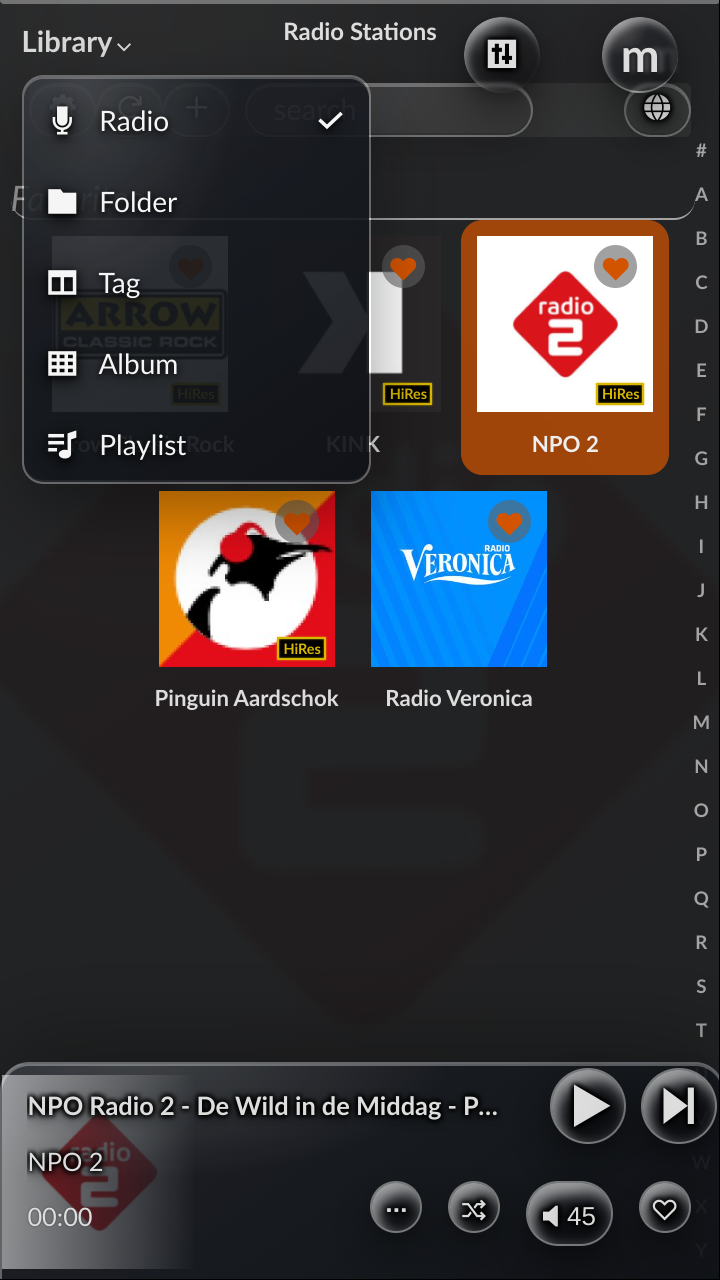
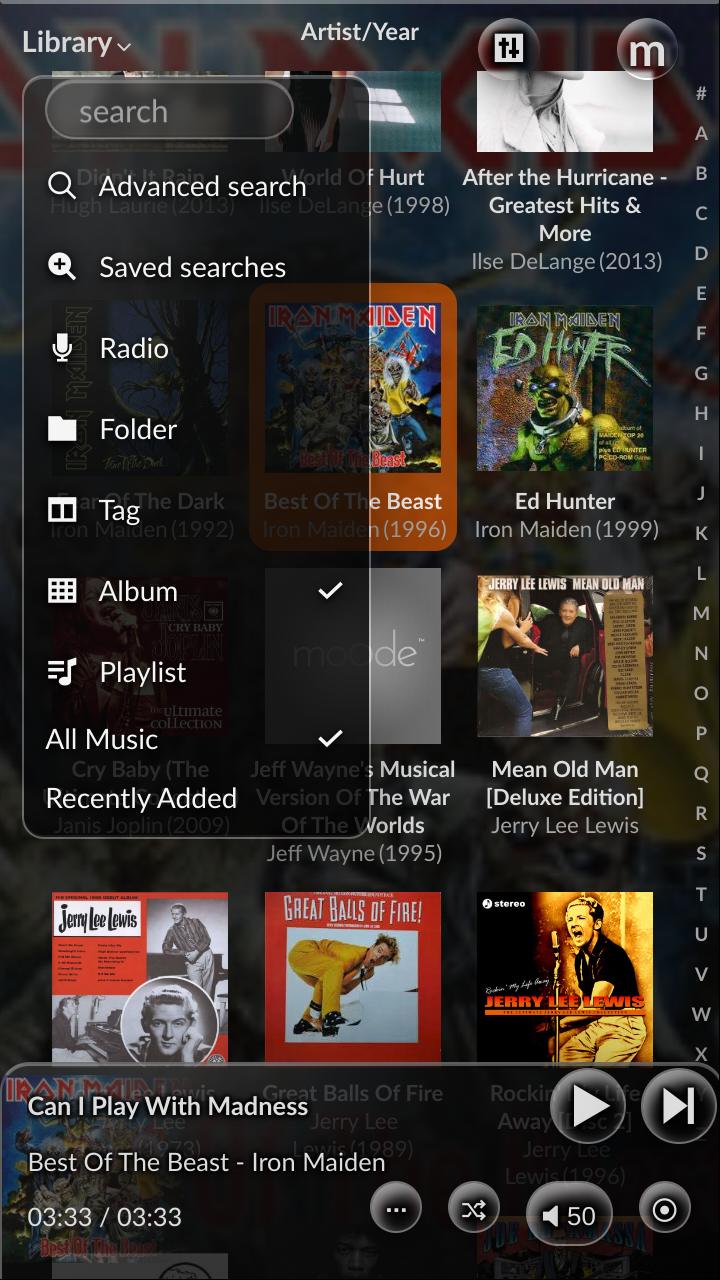
liquid glass styling updates

diff --git a/LiquidGlassTheme/liquid-glass-theme.css b/LiquidGlassTheme/liquid-glass-theme.css
@@ -1,6 +1,7 @@
 :root.liquid-glass-theme {
-    --liquid-glass-panel: rgba(24, 28, 35, .11);
+    --liquid-glass-panel: rgba(0, 0, 0, .08);
     --liquid-glass-control: rgba(255, 255, 255, .025);
+    --liquid-glass-dark-surface: rgba(0, 0, 0, .80);
     --liquid-glass-border: rgba(255, 255, 255, .34);
     --liquid-glass-shadow: rgba(0, 0, 0, .28);
 }
@@ -26,14 +27,15 @@
     position: absolute;
     z-index: 1;
     inset: 0;
-    background-color: rgba(16, 19, 24, .90) !important;
+    background-color: var(--liquid-glass-dark-surface) !important;
     background-image:
         radial-gradient(ellipse at 18% 0, rgba(255,255,255,.15), transparent 38%),
-        linear-gradient(145deg, rgba(255,255,255,.055), rgba(8,10,14,.18)) !important;
+        linear-gradient(145deg, rgba(255,255,255,.055), rgba(8,10,14,.16)) !important;
     pointer-events: none;
 }
 
-:root.liquid-glass-theme #content:has(#playback-panel.active) {
+:root.liquid-glass-theme #content:has(#playback-panel.active),
+:root.liquid-glass-theme.liquid-glass-library-visible #content {
     background-color: transparent !important;
 }
 
@@ -94,12 +96,12 @@
     display: inline-flex !important;
     align-items: center !important;
     justify-content: center !important;
-    width: 3.5rem !important;
-    min-width: 3.5rem !important;
-    max-width: 3.5rem !important;
-    height: 3.5rem !important;
-    min-height: 3.5rem !important;
-    max-height: 3.5rem !important;
+    width: 2.85rem !important;
+    min-width: 2.85rem !important;
+    max-width: 2.85rem !important;
+    height: 2.85rem !important;
+    min-height: 2.85rem !important;
+    max-height: 2.85rem !important;
     padding: 0 !important;
     border-radius: 50% !important;
     line-height: 1 !important;
@@ -110,13 +112,16 @@
    Re-center them inside the now circular control. */
 :root.liquid-glass-theme #panel-header #menu-settings #mblur,
 :root.liquid-glass-theme #panel-header #menu-settings #mbrand {
-    top: 50% !important;
-    right: auto !important;
-    bottom: auto !important;
-    left: 50% !important;
+    inset: 0 !important;
+    display: flex !important;
+    align-items: center !important;
+    justify-content: center !important;
+    width: 100% !important;
+    height: 100% !important;
     margin: 0 !important;
     line-height: 1 !important;
-    transform: translate(-50%, -50%) !important;
+    text-align: center !important;
+    transform: none !important;
 }
 
 /* Avoid re-blurring the moving album grid on every Library scroll frame. */
@@ -157,11 +162,11 @@
 :root.liquid-glass-theme #playbar-switch {
     background:
         radial-gradient(ellipse at 25% 9%, rgba(255,255,255,.22), transparent 34%),
-        radial-gradient(ellipse at 72% 94%, rgba(0,0,0,.13), transparent 56%),
+        radial-gradient(ellipse at 72% 94%, rgba(0,0,0,.12), transparent 56%),
         linear-gradient(145deg, rgba(255,255,255,.025), rgba(255,255,255,.008)) !important;
     border-color: rgba(255,255,255,.32) !important;
     box-shadow: inset 2px 3px 4px rgba(255,255,255,.46),
-                inset -3px -6px 9px rgba(0,0,0,.24),
+                inset -3px -6px 9px rgba(0,0,0,.22),
                 0 10px 24px rgba(0,0,0,.40),
                 0 3px 7px rgba(0,0,0,.18) !important;
     -webkit-backdrop-filter: blur(1px) saturate(155%) contrast(104%) brightness(102.5%) !important;
@@ -187,7 +192,7 @@
 :root.liquid-glass-theme .btn-group > .btn:hover {
     background:
         radial-gradient(ellipse at 25% 9%, rgba(255,255,255,.30), transparent 36%),
-        radial-gradient(ellipse at 72% 94%, rgba(0,0,0,.11), transparent 56%),
+        radial-gradient(ellipse at 72% 94%, rgba(0,0,0,.10), transparent 56%),
         linear-gradient(145deg, rgba(255,255,255,.045), rgba(255,255,255,.012)) !important;
     border-color: rgba(255,255,255,.42) !important;
 }
@@ -211,10 +216,10 @@
 
 /* Menu rows stay rows instead of appearing as several active pills. */
 :root.liquid-glass-theme .dropdown-menu {
-    background-color: rgba(16, 19, 24, .90) !important;
+    background-color: var(--liquid-glass-dark-surface) !important;
     background-image:
         radial-gradient(ellipse at 18% 0, rgba(255,255,255,.15), transparent 38%),
-        linear-gradient(145deg, rgba(255,255,255,.055), rgba(8,10,14,.18)) !important;
+        linear-gradient(145deg, rgba(255,255,255,.055), rgba(8,10,14,.16)) !important;
     color: rgba(255,255,255,.96) !important;
     border: 1px solid rgba(255,255,255,.30) !important;
     border-radius: 1rem !important;
@@ -230,7 +235,7 @@
     background-image:
         url(../images/camilladsp.svg),
         radial-gradient(ellipse at 18% 0, rgba(255,255,255,.15), transparent 38%),
-        linear-gradient(145deg, rgba(255,255,255,.055), rgba(8,10,14,.18)) !important;
+        linear-gradient(145deg, rgba(255,255,255,.055), rgba(8,10,14,.16)) !important;
     background-repeat: no-repeat, no-repeat, no-repeat !important;
     background-position: 50% top, left top, left top !important;
     background-size: 5em, auto, auto !important;
@@ -277,10 +282,10 @@
 /* Keep moOde's native Library playbar layout while giving its existing
    surface and controls the same tint-free glass material as Playback. */
 :root.liquid-glass-theme #panel-footer {
-    background-color: rgba(16, 19, 24, .90) !important;
+    background-color: var(--liquid-glass-dark-surface) !important;
     background-image:
         radial-gradient(ellipse at 18% 0, rgba(255,255,255,.15), transparent 38%),
-        linear-gradient(145deg, rgba(255,255,255,.055), rgba(8,10,14,.18)) !important;
+        linear-gradient(145deg, rgba(255,255,255,.055), rgba(8,10,14,.16)) !important;
     border: 1px solid var(--liquid-glass-border) !important;
     border-bottom: none !important;
     border-radius: 1.35rem 1.35rem 0 0 !important;
@@ -309,7 +314,7 @@
     border: 1px solid rgba(255,255,255,.42) !important;
     border-radius: 50% !important;
     box-shadow: inset 3px 5px 7px rgba(255,255,255,.56),
-                inset -5px -9px 13px rgba(0,0,0,.34),
+                inset -5px -9px 13px rgba(0,0,0,.30),
                 inset 0 -2px 4px rgba(255,255,255,.12),
                 0 12px 28px rgba(0,0,0,.44),
                 0 4px 9px rgba(0,0,0,.22) !important;
@@ -455,10 +460,10 @@
 /* Without live blur, Library labels behind the fixed footer remain sharply
    visible. A static dark glass fill hides that visual noise at no repaint cost. */
 :root.liquid-glass-theme.liquid-glass-library-visible #panel-footer {
-    background-color: rgba(16, 19, 24, .90) !important;
+    background-color: var(--liquid-glass-dark-surface) !important;
     background-image:
         radial-gradient(ellipse at 18% 0, rgba(255,255,255,.15), transparent 38%),
-        linear-gradient(145deg, rgba(255,255,255,.055), rgba(8,10,14,.18)) !important;
+        linear-gradient(145deg, rgba(255,255,255,.055), rgba(8,10,14,.16)) !important;
 }
 
 :root.liquid-glass-theme #panel-footer #playbar-currentsong,
@@ -483,7 +488,7 @@
     border: 1px solid rgba(255,255,255,.42) !important;
     border-radius: 50% !important;
     box-shadow: inset 7px 12px 16px rgba(255,255,255,.56),
-                inset -11px -20px 30px rgba(0,0,0,.34),
+                inset -11px -20px 30px rgba(0,0,0,.30),
                 inset 0 -3px 7px rgba(255,255,255,.12),
                 0 28px 60px rgba(0,0,0,.46),
                 0 7px 17px rgba(0,0,0,.22) !important;

diff --git a/SiriRemote/moode-navigation/siri-remote-navigation.js b/SiriRemote/moode-navigation/siri-remote-navigation.js
@@ -20,6 +20,13 @@
     const OVERLAY_URL = 'http://127.0.0.1:8765/overlay';
     const LOCAL_DISPLAY_HOSTS = new Set(['localhost', '127.0.0.1', '::1', '[::1]']);
     const IS_LOCAL_DISPLAY = LOCAL_DISPLAY_HOSTS.has(window.location.hostname);
+
+    // This integration translates keyboard-like events from the Siri Remote
+    // daemon into local kiosk navigation. Network clients must use moOde's
+    // native touch/mouse handling exclusively; even passive capture listeners
+    // can otherwise interfere with a real phone's pointer/click sequence.
+    if (!IS_LOCAL_DISPLAY) return;
+
     let selected = null;
     let playbackReturnTimer = null;
     let continuationTimer = null;
@@ -82,7 +89,7 @@
             font-family: Lato, sans-serif;
             border: 1px solid rgba(255,255,255,.32);
             box-shadow: inset 5px 8px 10px rgba(255,255,255,.46),
-                        inset -8px -14px 22px rgba(0,0,0,.24),
+                        inset -8px -14px 22px rgba(0,0,0,.22),
                         0 24px 54px rgba(0,0,0,.42),
                         0 6px 15px rgba(0,0,0,.18);
             -webkit-backdrop-filter: blur(1px) saturate(155%) contrast(104%);
@@ -107,10 +114,10 @@
         }
         #siri-browser-overlay .siri-overlay-glass,
         #siri-browser-overlay .siri-overlay-lens::before {
-            background-color: rgba(16,19,24,.90);
+            background-color: rgba(0,0,0,.80);
             background-image:
                 radial-gradient(ellipse at 18% 0, rgba(255,255,255,.15), transparent 38%),
-                linear-gradient(145deg, rgba(255,255,255,.055), rgba(8,10,14,.18));
+                linear-gradient(145deg, rgba(255,255,255,.055), rgba(8,10,14,.16));
         }
         #siri-browser-overlay .siri-overlay-lens::after {
             content: '';

diff --git a/SiriRemote/test_siri_remote_moode.py b/SiriRemote/test_siri_remote_moode.py
@@ -704,14 +704,14 @@ class X11OverlayTests(unittest.TestCase):
         )
 
     def test_overlay_colors_match_dark_glass_theme(self):
-        self.assertEqual(remote.X11Overlay.MOODE_GREY, 0x101318)
+        self.assertEqual(remote.X11Overlay.MOODE_GREY, 0x000000)
         self.assertEqual(remote.X11Overlay.MOODE_TEXT, (240 / 255.0,) * 3)
-        self.assertEqual(remote.X11Overlay.OVERLAY_OPACITY, 0.90)
+        self.assertEqual(remote.X11Overlay.OVERLAY_OPACITY, 0.80)
         self.assertEqual(remote.X11Overlay.OVERLAY_BORDER_OPACITY, 0.48)
         self.assertEqual(remote.X11Overlay.OVERLAY_BORDER_WIDTH, 0.004)
         self.assertEqual(remote.X11Overlay.GLASS_BLUR_DOWNSAMPLE, 8)
         self.assertEqual(remote.X11Overlay.GLASS_HIGHLIGHT_OPACITY, 0.16)
-        self.assertEqual(remote.X11Overlay.GLASS_SHADOW_OPACITY, 0.18)
+        self.assertEqual(remote.X11Overlay.GLASS_SHADOW_OPACITY, 0.16)
         self.assertEqual(remote.X11Overlay.REPAINT_SETTLE_SECONDS, 0.05)
         self.assertEqual(remote.X11Overlay.COVER_CENTER_Y_RATIO, 0.29375)
 

diff --git a/SiriRemote/siri_remote_moode.py b/SiriRemote/siri_remote_moode.py
@@ -1074,14 +1074,14 @@ class X11Overlay:
 
     CW_OVERRIDE_REDIRECT = 1 << 9
     ZPIXMAP = 2
-    MOODE_GREY = 0x101318
+    MOODE_GREY = 0x000000
     MOODE_TEXT = (240 / 255.0, 240 / 255.0, 240 / 255.0)
-    OVERLAY_OPACITY = 0.90
+    OVERLAY_OPACITY = 0.80
     OVERLAY_BORDER_OPACITY = 0.48
     OVERLAY_BORDER_WIDTH = 0.004
     GLASS_BLUR_DOWNSAMPLE = 8
     GLASS_HIGHLIGHT_OPACITY = 0.16
-    GLASS_SHADOW_OPACITY = 0.18
+    GLASS_SHADOW_OPACITY = 0.16
     REPAINT_SETTLE_SECONDS = 0.05
     COVER_CENTER_Y_RATIO = 0.29375
     SHUTDOWN_RING_CENTER_Y = 0.50

diff --git a/SiriRemote/moode-navigation/patch_header.py b/SiriRemote/moode-navigation/patch_header.py
@@ -10,7 +10,7 @@ from pathlib import Path
 
 BEGIN = "<!-- BEGIN SIRI REMOTE LIBRARY NAVIGATION -->"
 END = "<!-- END SIRI REMOTE LIBRARY NAVIGATION -->"
-ASSET_VERSION = 6
+ASSET_VERSION = 12
 SOURCE_ANCHOR = re.compile(r'^\s*<script src="js/scripts-panels\.js(?:\?[^\"]*)?" defer></script>\s*$')
 BUILT_ANCHOR = re.compile(r'^\s*<script src="js/main\.min\.js(?:\?[^\"]*)?" defer></script>\s*$')
 

diff --git a/LiquidGlassTheme/patch_header.py b/LiquidGlassTheme/patch_header.py
@@ -10,7 +10,7 @@ from pathlib import Path
 
 BEGIN = "<!-- BEGIN LIQUID GLASS THEME -->"
 END = "<!-- END LIQUID GLASS THEME -->"
-ASSET_VERSION = 44
+ASSET_VERSION = 52
 SOURCE_ANCHOR = re.compile(
     r'^\s*<script src="js/scripts-panels\.js(?:\?[^\"]*)?" defer></script>\s*$'
 )

diff --git a/LiquidGlassTheme/readme.md b/LiquidGlassTheme/readme.md
@@ -25,6 +25,9 @@ The persistent moOde and CamillaDSP header menus use the same circular glass
 geometry in Playback and Library views. Album-footer transport controls have
 locked square dimensions and cannot be compressed into vertical ovals by the
 mobile flex layout.
+The shared dark material is pure black at 80% opacity. This retains the dark
+moOde character while allowing more of the cover artwork's original colour and
+detail to remain visible, without introducing a grey or blue cast.
 The theme never overrides moOde's button visibility, so unavailable or disabled
 layout actions stay hidden. Controls with a text label, such as Volume, may
 remain wider capsules.
@@ -38,7 +41,7 @@ after installation. SiriRemote's command feedback overlay is deliberately not
 part of this theme and remains local to the Raspberry Pi display.
 
 <img width="350" alt="Liquid Glass Playback view" src="assets/liquid-glass-playback.png" />
-<br><sub>Playback with tint-free glass controls and readable metadata over moOde's cover backdrop.</sub><br><br>
+<br><sub>Playback with the current pure-black 80% glass controls and readable metadata over moOde's cover backdrop.</sub><br><br>
 
 <p>
   <img width="350" alt="Liquid Glass Album view" src="assets/liquid-glass-album.png" />
@@ -63,7 +66,12 @@ No additional package is installed. The CSS is applied only while moOde's
 active theme is `Liquid Glass`; choosing another theme in the GUI immediately
 disables it. The database row supplies the standard moOde base colours, while
 the separate stylesheet provides effects that cannot be represented by
-moOde's four native theme colour fields. While a Library grid is visible, the
+moOde's four native theme colour fields. Playback and Library share the same
+sharp cover-art backdrop and dark translucent veil, so moving between both
+views no longer changes the visibility of the artwork. The CamillaDSP and
+moOde menu controls are slightly smaller than the native header height, remain
+fully inside the bar, and center the `m` brand independently of moOde's
+original padded positioning. While a Library grid is visible, the
 theme keeps its glass gradients, rims, and shadows but suspends live backdrop
 blur on the fixed header, footer, and footer buttons. This avoids repeatedly
 re-blurring the moving album grid and makes touch scrolling more consistent.

diff --git a/SiriRemote/readme.md b/SiriRemote/readme.md
@@ -417,6 +417,10 @@ paused, stopped, or reconnecting. Selecting an item that starts playback
 therefore also returns the local display to fullscreen Playback after five
 seconds of no further interaction. Browser sessions opened over the network
 from a phone or laptop never start this timer and retain their chosen view.
+The navigation integration exits immediately in those network-browser
+sessions, so their clicks, taps, menus, and scrolling remain entirely native
+moOde behavior. Only the Raspberry Pi's local kiosk display receives the Siri
+Remote focus and inactivity handling.
 
 General moOde styling is deliberately not part of SiriRemote. The separately
 installable [LiquidGlassTheme](../LiquidGlassTheme/readme.md) provides the
@@ -439,8 +443,9 @@ existing local Chromium page renders a one-second circular overlay. It installs
 no compositor or additional package. The current cover is enlarged inside the
 circle and combined with restrained highlights, directional inset shadows, a
 thin partially transparent white rim, and a one-pixel backdrop blur to create
-the tint-free liquid-glass lens while leaving the artwork and its original
-colours readable underneath. The overlay is self-contained and works with
+the liquid-glass lens. Its pure-black surface uses 80% opacity, matching the
+optional theme while leaving the artwork and its original colours visible
+underneath without a grey or blue cast. The overlay is self-contained and works with
 every moOde theme. Its proportions match the optional Liquid Glass controls
 when that separate theme is selected.
 Regular-weight labels and bold primary values match the visual hierarchy of
